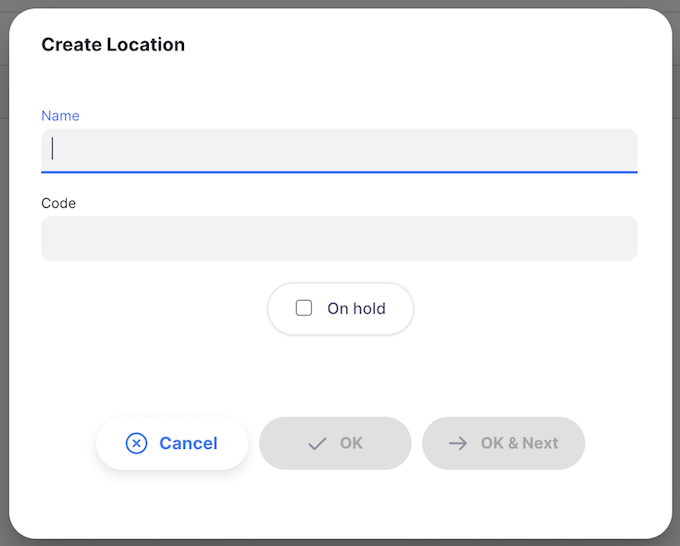
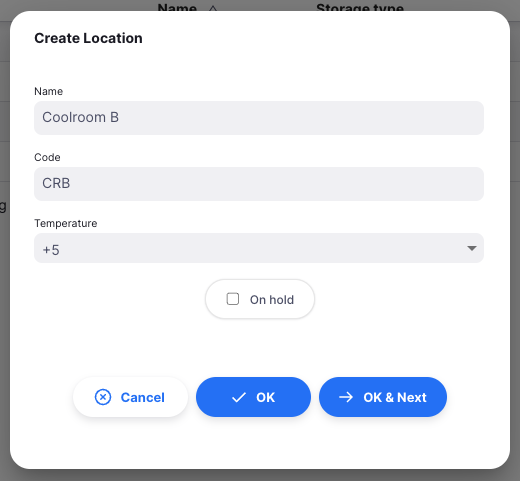
from 8b623837095c577ac03b41fb12e961ce159a2f3a

diff --git a/content/docs/catalogue/items.md b/content/docs/catalogue/items.md
@@ -62,9 +62,9 @@ There are two tabs in the bottom part of the screen:
 - **Master Lists**: Master lists associated with the item
 <!-- - **Pack Variants**: Customisable pack sizes for the item. Can only be configured in Open mSupply's new central server. -->
 
-#### General
+### General
 
-##### Details
+#### Details
 
 - **Name**: This is the name by which mSupply will refer to the item
 - **Code**: This should be unique for each item and is a helpful shorthand for referring to items
@@ -75,13 +75,13 @@ There are two tabs in the bottom part of the screen:
 - **Doses**: For vaccines, the number of dose per vial
 - **Vaccine** (check box): If this is checked, this item is a vaccine and a number of dose can be assigned
 
-##### Categories
+#### Categories
 
 - **ATC Category**: ATC stands for Anatomical, Therapeutic, Chemical and is a method of classifying entities, and identifying them by category
 - **Universal Name**: if the item is linked to the [universal drug code database](https://codes.msupply.foundation/), this shows the universal, or generic name for the given item
 - **Universal Code**: similarly, the code allocated to the universal drug code item
 
-##### Packaging
+#### Packaging
 
 - **Default pack size**: This is the default pack size that will be assigned to incoming stock as it is received
 - **Outer pack size**: The number of units in a carton (outer pack). Not the number of preferred pack size packs in a carton (outer pack).
@@ -89,11 +89,129 @@ There are two tabs in the bottom part of the screen:
 - **Volume per outer pack**: The default volume of an Outer pack size pack of this item
 - **Weight**: The weight of a preferred pack size pack in kg
 
-##### Pricing
+#### Pricing
 
 - **Margin**: This is the default margin that will be applied to this item on Inbound Shipments to calculate the selling price
 
-#### Master Lists
+### Master Lists
 
 This tab lists the Master Lists associated with this item.
 ![Item detail headers](/docs/catalogue/images/cat_itemmasterlists.png)
+
+## Item Variants
+
+On the [Open mSupply Central Server](/docs/getting_started/central), a third tab, Item Variants, is available. This tab allows you to configure variations of the item, such as different manufacturers or packaging sizes.
+
+Currently, Item Variants are only used for GAPS functionality.
+
+![variants tab](/docs/catalogue/images/variants_tab.png)
+
+### Adding an Item Variant
+
+To create a new Item Variant, click the `Add Variant` button in the top right corner.
+
+![add variant button](/docs/catalogue/images/add_variant_button.png)
+
+This will open a new window, where you can enter a name for the variant, and its details:
+
+![add variant window](/docs/catalogue/images/add_item_variant_modal.png)
+
+Temperature options are configured as [Location Types](https://docs.msupply.org.nz/items:item_locations?s[]=location&s[]=type#location_types) on the mSupply Central Server. [Manufacturers](https://docs.msupply.org.nz/names:adding_and_editing?s[]=manufacturers#adding_a_customer_supplier_manufacturer_donor_or_benchmark) are also managed in mSupply.
+
+#### Packaging
+
+Different facilities work in different levels of packaging, e.g. a warehouse may work in cartons, while a clinic works in boxes or individual units. In the Packaging section, you can define the pack size (units per pack) and packaging volume for the different packaging levels of an item variant.
+
+This allows GAPS calculations to accurately account for the cold storage requirements for this item variant, at the packaging level used by a particular facility.
+
+<div class="note">
+The pack sizes defined in Item Variants are used for GAPS calculations ONLY, to provide greater accuracy across item variations. It does not affect the pack sizes used in your usual ordering workflows in Open mSupply.
+</div>
+
+### Editing an Item Variant
+
+To edit an Item Variant, click the `Edit` button next to the variant you wish to update.
+
+![edit variant button](/docs/catalogue/images/item_variant_edit_button.png)
+
+This will open the same window as when adding a new variant, with the existing details pre-filled. Make any changes you need, and click `OK` to update the variant.
+
+![edit variant window](/docs/catalogue/images/edit_item_variant_modal.png)
+
+### Deleting an Item Variant
+
+To delete an Item Variant, click the `Delete` button next to the variant you wish to remove.
+
+![delete variant button](/docs/catalogue/images/item_variant_delete_button.png)
+
+You will be asked to confirm the deletion. Click `OK` to confirm, or `Cancel` if you no longer wish to delete the variant.
+
+<p align="center">
+    <img src="/docs/catalogue/images/item_variant_confirm_delete.png" width="450">
+</p>
+
+### Bundling items
+
+You can also add bundled items to each Item Variant. These are other items that are always issued with this item, so GAPS calculations should consider the storage required for all items in the bundle.
+
+<div class="note">
+  Bundled items are not implemented in dispensing workflows in Open mSupply. You still need to dispense each item in the bundle separately.
+</div>
+
+Bundling is done at the Item Variant level, giving you fine-grained control over which variants should be bundled together. For example, a vaccine may only be able to be bundled with a specific diluent from the same manufacturer.
+
+#### Adding bundled items
+
+To bundle an item with the current variant, click the `Add bundled item` button under the `Bundled with` section.
+
+<p align="center">
+    <img src="/docs/catalogue/images/add_bundled_item.png" width="300">
+</p>
+
+This will open a new window, where you can search for the item you wish to bundle with the current variant.
+
+<p align="center">
+    <img src="/docs/catalogue/images/add_bundled_item_select_item.png" width="700">
+</p>
+
+After selecting the item, you will be prompted to select the specific variant of that item, along with the ratio at which it should be bundled.
+
+<div class="imagetitle">
+In this example, 0.2 units of Silverfern Normal Saline should be bundled with every 1 unit of Silverfern Adsorbed (Paediatric) DPT Vaccine.
+</div>
+
+<p align="center">
+    <img src="/docs/catalogue/images/add_bundled_item_modal.png" width="700">
+</p>
+
+Click OK to add the bundled item. It will then appear in the `Bundled with` section.
+
+![item variant with bundled item](/docs/catalogue/images/item_variant_with_bundled_item.png)
+
+#### Editing bundled items
+
+To edit a bundled item, click the row in the `Bundled with` section. This will open the same window as when adding a new bundled item, with the existing details pre-filled. Make any changes you need, and click `OK` to update the bundle.
+
+<p align="center">
+    <img src="/docs/catalogue/images/add_bundled_item_modal.png" width="700">
+</p>
+
+#### Removing bundled items
+
+To remove a bundled item, click the Delete icon next to the item you wish to remove.
+
+![remove bundled item button](/docs/catalogue/images/remove_bundled_item.png)
+
+You will be asked to confirm the removal of the bundled item. Click `OK` to confirm, or `Cancel` if you no longer wish to remove it.
+
+<p align="center">
+    <img src="/docs/catalogue/images/confirm_remove_from_bundle.png" width="450">
+</p>
+
+#### Item variants that are a part of bundles
+
+You aren't able to bundle items for an item variant that is already part of another bundle.
+
+The `Add bundled item` button will be disabled, and you will instead see a list of the item variants that this variant is already bundled with.
+
+![item variant part of another bundle](/docs/catalogue/images/item_variant_is_bundled.png)

diff --git a/content/docs/inventory/locations.md b/content/docs/inventory/locations.md
@@ -34,7 +34,6 @@ You can filter the list by location name or on hold status.
 
 ![Location: filter](/docs/inventory/images/location_filter.png)
 
-
 ## Creating a new location
 
 To create a new location, tap on the `New Location` button in the top right corner of the screen:
@@ -47,7 +46,8 @@ A window like this opens:
 
 1. **Name**: Enter the name of the new location
 2. **Code**: Enter a code for the new location
-3. **On Hold** (checkbox): If you check this box, then goods in this location cannot be selected for issue to customers. Goods can be moved in to, and out, of the location but they cannot be issued from that location.
+3. **Temperature** (optional): Select the storage temperature range. These options are configured as [Location Types](https://docs.msupply.org.nz/items:item_locations?s[]=location&s[]=type#location_types) on the mSupply Central Server.
+4. **On Hold** (checkbox): If you check this box, then goods in this location cannot be selected for issue to customers. Goods can be moved in to, and out, of the location but they cannot be issued from that location.
 
 <div class="tip">
 Putting a location on hold can be useful if:
